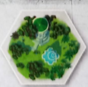
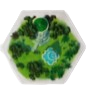
ajout d'hexagone pour tester et des docstring

diff --git a/src/PlateauWidget.cpp b/src/PlateauWidget.cpp
@@ -8,21 +8,76 @@
 #include <QFrame>
 #include <QPen>
 #include <QLabel>
+#include <array>
 
-void PlateauWidget::ajouterTuile(Tuile& t)
+namespace {
+
+Tuile creerTuileDepartAkropolis()
+{
+    auto* place = new Hexagone(0, 0, 0, TypeHex::PHabitation);
+    auto* carriereOuest = new Hexagone(-1, 1, 0, TypeHex::Carriere);
+    auto* carriereSud = new Hexagone(0, -1, 0, TypeHex::Carriere);
+    auto* carriereEst = new Hexagone(1, 0, 0, TypeHex::Carriere);
+    return Tuile(place, carriereOuest, carriereSud, carriereEst);
+}
+
+Tuile creerTuileMarcheTemple()
+{
+    auto* placeMarche = new Hexagone(0, 0, 0, TypeHex::PMarche);
+    auto* temple = new Hexagone(1, -1, 0, TypeHex::Temple);
+    auto* marche = new Hexagone(0, -1, 0, TypeHex::Marche);
+    return Tuile(placeMarche, temple, marche);
+}
+
+Tuile creerTuileCaserneCarriere()
+{
+    auto* placeCaserne = new Hexagone(0, 0, 0, TypeHex::PCaserne);
+    auto* caserne = new Hexagone(1, -1, 0, TypeHex::Caserne);
+    auto* carriere = new Hexagone(0, -1, 0, TypeHex::Carriere);
+    return Tuile(placeCaserne, caserne, carriere);
+}
+
+Tuile creerTuileTempleJardin()
+{
+    auto* placeTemple = new Hexagone(0, 0, 0, TypeHex::PTemple);
+    auto* jardin = new Hexagone(1, -1, 0, TypeHex::Jardin);
+    auto* habitation = new Hexagone(0, -1, 0, TypeHex::Habitation);
+    return Tuile(placeTemple, jardin, habitation);
+}
+
+Tuile creerTuileHabitationMarche()
+{
+    auto* placeHabitation = new Hexagone(0, 0, 0, TypeHex::PHabitation);
+    auto* marche = new Hexagone(1, -1, 0, TypeHex::Marche);
+    auto* caserne = new Hexagone(0, -1, 0, TypeHex::Caserne);
+    return Tuile(placeHabitation, marche, caserne);
+}
+
+struct TuilePlacement
+{
+    Tuile (*fabrique)();
+    int q;
+    int r;
+};
+
+}
+
+TuileItem* PlateauWidget::ajouterTuile(Tuile& t, bool centrer)
 {
     if (!plateauScene)
-        return;
+        return nullptr;
 
     auto* tuileItem = new TuileItem(t);
-    tuileItem->setPlateauOrigin(zonePlateauRect.topLeft());
+    tuileItem->setPlateauOrigin(zonePlateauRect.center());
     plateauScene->addItem(tuileItem);
 
-    if (zonePlateauRectItem) {
+    if (centrer) {
         const QPointF center = zonePlateauRect.center();
         const QRectF itemBounds = tuileItem->boundingRect();
         tuileItem->setPos(center - itemBounds.center());
     }
+
+    return tuileItem;
 }
 
 PlateauWidget::PlateauWidget(QWidget* parent)
@@ -30,31 +85,91 @@ PlateauWidget::PlateauWidget(QWidget* parent)
 {
     setFixedSize(1920, 1080);
 
-    int scoreBandeHeight = 50;
-    int piocheWidth = 250;
+    constexpr int colonneDroiteLargeur = 250;
+    constexpr int scoreWidgetSize = 250;
 
     plateauScene = new QGraphicsScene(this);
-    auto* view = new QGraphicsView(plateauScene, this);
-    view->setFrameStyle(QFrame::NoFrame);
-    auto* layout = new QVBoxLayout(this);
+    piocheScene = new QGraphicsScene(this);
+    plateauView = new QGraphicsView(plateauScene, this);
+    plateauView->setFrameStyle(QFrame::NoFrame);
+    plateauView->setHorizontalScrollBarPolicy(Qt::ScrollBarAlwaysOff);
+    plateauView->setVerticalScrollBarPolicy(Qt::ScrollBarAlwaysOff);
+    piocheView = new QGraphicsView(piocheScene, this);
+    piocheView->setFrameStyle(QFrame::NoFrame);
+    piocheView->setHorizontalScrollBarPolicy(Qt::ScrollBarAlwaysOff);
+    piocheView->setVerticalScrollBarPolicy(Qt::ScrollBarAlwaysOff);
+
+    auto* layout = new QHBoxLayout(this);
     layout->setContentsMargins(0, 0, 0, 0);
     layout->setSpacing(0);
+    layout->addWidget(plateauView, 1);
 
-    auto* bandeScore = new QWidget(this);
-    bandeScore->setFixedHeight(scoreBandeHeight);
-    bandeScore->setStyleSheet("background-color: #f0f0f0;");
-    auto* scoreLayout = new QHBoxLayout(bandeScore);
-    scoreLayout->setContentsMargins(20, 10, 20, 10);
-    scoreLayout->addWidget(new QLabel("Scores", bandeScore));
+    auto* panneauDroit = new QWidget(this);
+    panneauDroit->setFixedWidth(colonneDroiteLargeur);
+    auto* colonneDroite = new QVBoxLayout(panneauDroit);
+    colonneDroite->setContentsMargins(0, 0, 0, 0);
+    colonneDroite->setSpacing(0);
+    layout->addWidget(panneauDroit, 0);
 
-    layout->addWidget(bandeScore);
-    layout->addWidget(view, 1);
-    plateauScene->setSceneRect(0, 0, width(), height() - scoreBandeHeight);
+    panneauScores = new QWidget(panneauDroit);
+    panneauScores->setFixedSize(colonneDroiteLargeur, scoreWidgetSize);
+    panneauScores->setStyleSheet("background-color: #f0f0f0;");
+    auto* scoreLayout = new QVBoxLayout(panneauScores);
+    scoreLayout->setContentsMargins(20, 20, 20, 20);
+    scoreLayout->setSpacing(8);
+    score = new QLabel("Scores", panneauScores);
+    joueurSelect = new QLabel("Joueur actif", panneauScores);
+    erreur = new QLabel("", panneauScores);
+    for (auto* label : {score, joueurSelect, erreur}) {
+        label->setAlignment(Qt::AlignLeft | Qt::AlignVCenter);
+        scoreLayout->addWidget(label);
+    }
+    colonneDroite->addWidget(panneauScores, 0, Qt::AlignTop);
 
-    // Pioche à droite
-    plateauScene->addRect(width() - piocheWidth, 0, piocheWidth, height() - scoreBandeHeight, QPen(Qt::NoPen), QBrush(Qt::red));
+    piocheView->setFixedWidth(colonneDroiteLargeur);
+    piocheView->setFixedHeight(height() - scoreWidgetSize);
+    colonneDroite->addWidget(piocheView, 1);
 
-    // Zone du plateau
-    zonePlateauRectItem = plateauScene->addRect(0, 0, width() - piocheWidth, height() - scoreBandeHeight, QPen(Qt::NoPen), QBrush(Qt::blue));
+    const int plateauWidth = width() - colonneDroiteLargeur;
+    const int plateauHeight = height();
+    plateauScene->setSceneRect(0, 0, plateauWidth, plateauHeight);
+    zonePlateauRectItem = plateauScene->addRect(0, 0, plateauWidth, plateauHeight,
+                                               QPen(Qt::NoPen), QBrush(Qt::blue));
     zonePlateauRect = zonePlateauRectItem->rect();
+
+    const int piocheHeight = height() - scoreWidgetSize;
+    piocheScene->setSceneRect(0, 0, colonneDroiteLargeur, piocheHeight);
+    zonePiocheRectItem = piocheScene->addRect(0, 0, colonneDroiteLargeur, piocheHeight,
+                                              QPen(Qt::NoPen), QBrush(Qt::red));
+    zonePiocheRect = zonePiocheRectItem->rect();
+
+    initialiserPlateauDemo();
+}
+
+void PlateauWidget::initialiserPlateauDemo()
+{
+    if (!zonePlateauRectItem)
+        return;
+
+    {
+        Tuile tuileDepart = creerTuileDepartAkropolis();
+        if (auto* item = ajouterTuile(tuileDepart, false)) {
+            item->setInteractivite(false, false);
+            item->positionnerSurAxial(0, 0);
+        }
+    }
+
+    const std::array<TuilePlacement, 4> placements = {{
+        {creerTuileMarcheTemple, 2, -1},
+        {creerTuileCaserneCarriere, -2, 1},
+        {creerTuileTempleJardin, 1, 2},
+        {creerTuileHabitationMarche, -1, -2}
+    }};
+
+    for (const auto& placement : placements) {
+        Tuile tuile = placement.fabrique();
+        if (auto* item = ajouterTuile(tuile, false)) {
+            item->positionnerSurAxial(placement.q, placement.r);
+        }
+    }
 }

diff --git a/src/TuileItem.cpp b/src/TuileItem.cpp
@@ -34,14 +34,26 @@ TuileItem::TuileItem(Tuile& ref, QGraphicsItem* parent)
 void TuileItem::addHex(HexItem* hex)
 {
     addToGroup(hex);
+    if (!hexRef)
+        hexRef = hex;
     prepareGeometryChange();
     setTransformOriginPoint(boundingRect().center());
 }
 
 void TuileItem::rotate60()
 {
+    if (!rotationAutorisee)
+        return;
     setRotation(rotation() + 60.0);
     replacerCorrectement();
+}
+
+
+void TuileItem::setInteractivite(bool autoriserDeplacement, bool autoriserRotation)
+{
+    setFlag(ItemIsMovable, autoriserDeplacement);
+    setFlag(ItemIsSelectable, autoriserDeplacement);
+    rotationAutorisee = autoriserRotation;
 }
 
 
@@ -49,7 +61,7 @@ void TuileItem::rotate60()
 
 void TuileItem::mousePressEvent(QGraphicsSceneMouseEvent* event)
 {
-    if (event->button() == Qt::RightButton)
+    if (event->button() == Qt::RightButton && rotationAutorisee)
         emit rightClicked();
 
     QGraphicsItemGroup::mousePressEvent(event);
@@ -73,11 +85,24 @@ QPointF pixelVersAxial(double px, double py, double size) {
 
 void TuileItem::replacerCorrectement()
 {
+    if (!hexRef)
+        return;
     const QPointF cScene = hexRef->mapToScene(hexRef->boundingRect().center());
     const QPointF localCenter = cScene - plateauOrigin;
     const QPointF axialF = pixelVersAxial(localCenter.x(), localCenter.y(), taille);
     const int q = qRound(axialF.x());
     const int r = qRound(axialF.y());
+    const QPointF cibleScene = axialVersPixel(q, r, taille) + plateauOrigin;
+    const QPointF deltaScene = cibleScene - cScene;
+    setPos(pos() + deltaScene);
+}
+
+void TuileItem::positionnerSurAxial(int q, int r)
+{
+    if (!hexRef)
+        return;
+
+    const QPointF cScene = hexRef->mapToScene(hexRef->boundingRect().center());
     const QPointF cibleScene = axialVersPixel(q, r, taille) + plateauOrigin;
     const QPointF deltaScene = cibleScene - cScene;
     setPos(pos() + deltaScene);

diff --git a/include/TuileItem.h b/include/TuileItem.h
@@ -7,19 +7,50 @@
 #include "HexItem.h"
 #include "Tuile.h"
 
+/**
+ * @brief Représentation graphique d'une tuile (ensemble d'hexagones) dans la scène.
+ * Gère les interactions (rotation/déplacement) et assure l'alignement sur la grille axiale.
+ */
 class TuileItem : public QObject ,public QGraphicsItemGroup {
     Q_OBJECT
-    HexItem* hexRef;
+    HexItem* hexRef = nullptr;
     QPointF plateauOrigin{0,0};
+    bool rotationAutorisee = true;
 public:
+    /**
+     * @brief Construit une tuile graphique vide pour une éventuelle composition manuelle.
+     */
     explicit TuileItem(QGraphicsItem* parent = nullptr);
+    /**
+     * @brief Construit une tuile graphique à partir d'une tuile métier et crée les HexItem associés.
+     */
     TuileItem(Tuile& modele, QGraphicsItem* parent = nullptr);
     void setCoordonnee(int x,int y);
+    /**
+     * @brief Ajoute dynamiquement un hexagone à la tuile graphique.
+     */
     void addHex(HexItem* hex);
+    /**
+     * @brief Pivote la tuile de 60° autour de son centre si l'interaction est autorisée.
+     */
     void rotate60();
+    /**
+     * @brief Repositionne la tuile pour que la référence tombe exactement sur la grille axiale.
+     */
     void replacerCorrectement();
     void debugMarkers();
+    /**
+     * @brief Définit l'origine (repère) utilisée pour convertir axial <-> pixels.
+     */
     void setPlateauOrigin(const QPointF& origin) { plateauOrigin = origin; }
+    /**
+     * @brief Active/désactive le déplacement et la rotation de la tuile.
+     */
+    void setInteractivite(bool autoriserDeplacement, bool autoriserRotation);
+    /**
+     * @brief Déplace la tuile pour que la référence soit posée sur les coordonnées axiales (q,r).
+     */
+    void positionnerSurAxial(int q, int r);
 signals:
     void rightClicked();
 

diff --git a/include/PlateauWidget.h b/include/PlateauWidget.h
@@ -3,26 +3,51 @@
 #include <QWidget>
 #include <QGraphicsScene>
 #include <QGraphicsRectItem>
+#include <QGraphicsView>
 #include <QRectF>
 #include "Partie.h"
 #include "TuileItem.h"
 #include <QLabel>
 
+/**
+ * @brief Widget principal affichant le plateau de jeu, la pioche et les informations de score.
+ * Il encapsule deux scènes graphiques distinctes (plateau/pioche) afin de gérer
+ * indépendamment le zoom et l'affichage.
+ */
 class PlateauWidget : public QWidget
 {
     Q_OBJECT
 
 public:
+    /**
+     * @brief Construit le widget et installe les vues/scènes du plateau et de la pioche.
+     */
     explicit PlateauWidget(QWidget* parent = nullptr);
-    void ajouterTuile(Tuile & t);
+    /**
+     * @brief Ajoute graphiquement une tuile dans la scène principale.
+     * @param t modèle métier servant de source pour les HexItem.
+     * @param centrer centre automatiquement la tuile dans la zone si true.
+     * @return pointeur vers le TuileItem créé pour manipulations ultérieures.
+     */
+    TuileItem* ajouterTuile(Tuile & t, bool centrer = true);
 
 private:
     QGraphicsScene* plateauScene = nullptr;
+    QGraphicsScene* piocheScene = nullptr;
     QGraphicsRectItem* zonePlateauRectItem = nullptr;
+    QGraphicsRectItem* zonePiocheRectItem = nullptr;
     QRectF zonePlateauRect;
-    QLabel * score;
-    QLabel *erreur;
-    QLabel * joueurSelect;
+    QRectF zonePiocheRect;
+    QGraphicsView* plateauView = nullptr;
+    QGraphicsView* piocheView = nullptr;
+    QWidget* panneauScores = nullptr;
+    QLabel * score = nullptr;
+    QLabel *erreur = nullptr;
+    QLabel * joueurSelect = nullptr;
+    /**
+     * @brief Construit un setup de démonstration avec la tuile de départ et quelques exemples.
+     */
+    void initialiserPlateauDemo();
 };
 
 #endif
